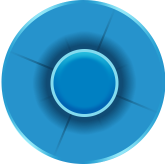
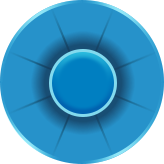
云台操作基础交互及样式优化

diff --git a/src/views/videoSystem/components/videoWall.vue b/src/views/videoSystem/components/videoWall.vue
@@ -174,14 +174,15 @@
           <div v-for="(item,index) in 8" :key="index"></div>
         </div>
         <div class="extra">
-          <!-- <img src="" alt="" class="zoom">
-          <img src="" alt="" class="focus">
-          <img src="" alt="" class="add">
-          <span class="step">X1.0</span>
-          <img src="" alt="" class="minus">-->
-          <div v-for="(item,index) in 5" :key="index">
+          <div
+            v-for="(item,index) in 5"
+            :key="index"
+            :title="index===0?'变倍':index==1?'变焦':index==3?'步速':''"
+            :class="{selected:curSelectedIcon==index}"
+            @click.stop="changeZoomOrFocus(index)"
+          >
             <template v-if="index===3">
-              <span>X1.0</span>
+              <span>X{{curStep}}</span>
             </template>
           </div>
         </div>
@@ -267,7 +268,8 @@ export default {
 
       settingPic: require('@/assets/images/AR/setting.png'),
       settingSelectedPic: require('@/assets/images/AR/setting_selected.png'),
-
+      curSelectedIcon: 0, // 云台变倍或变焦 默认选中 0变倍 1变焦
+      curStep: 4, // 步速
       showMarkForm: false,
       ruleForm: {
         tagName: '',
@@ -382,6 +384,18 @@ export default {
   },
 
   methods: {
+    // 切换变倍或变焦
+    changeZoomOrFocus (index) {
+      // 只有是0,1时切换样式  其它不改变
+      if (index <= 1) {
+        this.curSelectedIcon = index
+      } else if (index === 2 || index === 4) {
+        // 判断当前是变倍还是变焦 进行放大操作
+      } else {
+        ++this.curStep
+        this.curStep = this.curStep > 8 ? 1 : this.curStep
+      }
+    },
     // 鼠标悬停显示的图片
     showActive (index) {
       this.active = index
@@ -1550,8 +1564,8 @@ export default {
     }
     .extra {
       position: absolute;
-      top:0;
-      right:0;
+      top: 0;
+      right: 0;
       div {
         width: 36px;
         height: 36px;
@@ -1564,38 +1578,56 @@ export default {
         background: url(../../../assets/images/operate/zoom.png) no-repeat
           center;
       }
+      div:nth-child(1).selected {
+        background: url(../../../assets/images/operate/zoom_selected.png)
+          no-repeat center;
+      }
       div:nth-child(2) {
         left: 22px;
         top: -60px;
         background: url(../../../assets/images/operate/focus.png) no-repeat
           center;
       }
+      div:nth-child(2).selected {
+        background: url(../../../assets/images/operate/focus_selected.png)
+          no-repeat center;
+      }
       div:nth-child(3) {
-        width:51px;
-        height:63px;
+        width: 51px;
+        height: 63px;
         left: 54px;
         top: -54px;
-        background: url(../../../assets/images/operate/add.png) no-repeat
-          center;
+        background: url(../../../assets/images/operate/add.png) no-repeat center;
+      }
+      div:nth-child(3):hover {
+        background: url(../../../assets/images/operate/add_selected.png)
+          no-repeat center;
       }
       div:nth-child(4) {
         left: 64px;
         top: -44px;
-        background:#1477AB;
-        width:40px;
-        height:40px;
+        background: #1477ab;
+        width: 40px;
+        height: 40px;
         text-align: center;
         line-height: 40px;
         border-radius: 50%;
-        border: 2px solid #2ECCEE;
+        border: 2px solid #2eccee;
       }
-       div:nth-child(5) {
-             width:59px;
-        height:48px;
+      div:nth-child(4):hover {
+        background: #004469;
+      }
+      div:nth-child(5) {
+        width: 59px;
+        height: 48px;
         left: 20px;
         top: -42px;
         background: url(../../../assets/images/operate/minus.png) no-repeat
           center;
+      }
+      div:nth-child(5):hover {
+        background: url(../../../assets/images/operate/minus_selected.png)
+          no-repeat center;
       }
     }
   }
